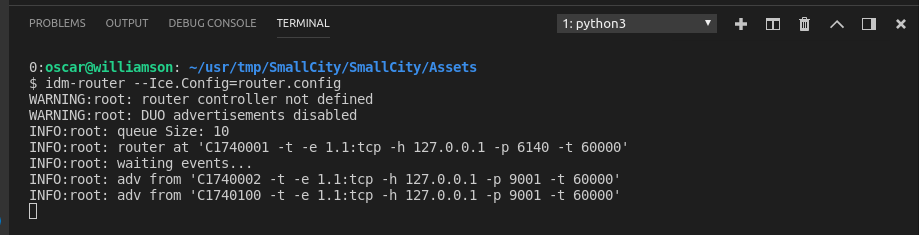
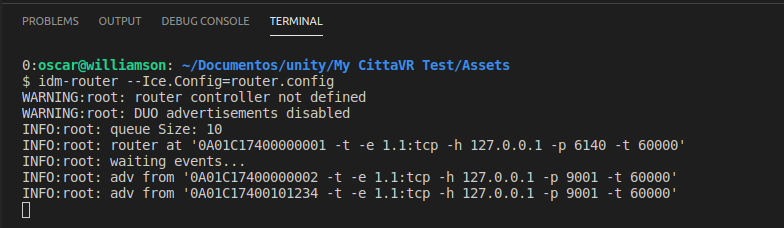
cittavr: updating docs, not finished

diff --git a/cittavr/content/_index.md b/cittavr/content/_index.md
@@ -188,8 +188,8 @@ tools for C# using the [NuGet repositories](https://www.nuget.org/),
 and there is a **plugin** to add support for NuGet to Unity, so this is
 what you need to install.
 
-First, **download the plugin** in the following site (its an asset in the form
-of an `.unitypackage`):
+First, **download the plugin** in the following site (is an asset in the form
+of `.unitypackage`):
 
 * [NuGetForUnity github releases](https://github.com/GlitchEnzo/NuGetForUnity/releases)
 
@@ -256,12 +256,10 @@ On drop, it will show a new window to select what components you want to
 include. Confirm that **all is selected** and press on import. Repeat the **same
 process** to include the package '*CittaVR Assets*' you downloaded earlier.
 
-<!--
-
 The final step to conclude your setup is **adding** to your scene an
 instance of the **CittaVRApp prefab**, which is needed to initialize
 all the internal runtime of CittaVR. Go to `Assets > CittaVR` folder
-inside your project tab of the Unity Editor. There you should find a
+inside your project tab on the Unity Editor. There you should find a
 [prefab](https://docs.unity3d.com/Manual/Prefabs.html) called
 `CittaVRApp` (the blue 3D box), drag it and drop into your *Hierarchy*
 tab (and save the scene!).
@@ -290,7 +288,7 @@ course, you are not limited to use only these, later we will
 see how to create new ones, but as a starting point they will do.
 
 Depending on the version you downloaded, there will be more or less
-available assets. As of writing this document, there were: an *street
+available assets. As of writing this document, there were: a *street
 lamp*, a *traffic lights* and a *proximity sensor*. Let's **add the
 street lamp** first.
 
@@ -301,51 +299,48 @@ wherever you want. After that, you may see something like this:
 {{< polaroid src="unity - street lamp added.png"
 caption="Unity: adding a new StreetLamp asset" >}}
 
-Well, OK. Maybe I've changed some *little* things (I've added a plane
-as a floor, reduced the light intensity and switched on the Street
-Lamp), but you get the idea, **there is a street lamp** on my scene,
-as should be in yours! Now, you can press **play** again... but it
-won't work :D, you'll see the following error message:
+Well, OK. Maybe I've changed some *little* things (I've added a plane as a
+floor, reduced the light intensity and switched on the Street Lamp), but you get
+the idea, **there is a street lamp** on my scene, as should be in yours! Now,
+you can press **play** again and your street lamp will be ready for action. You
+may see a warning message like this:
 
 {{< polaroid src="unity - error no idm address.png"
 caption="Unity: running without IDM address">}}
 
-Yes, the reason is that we didn't set a valid IDM address for this
-object. In order to be reachable, or to know the source of a virtual
-event, every object in CittaVR **must have** an IDM **address**. To
-set it, go to the object inspector (right side in the above picture),
-and find the `Street Lamp (Script)` component. There, you should
-see two properties:
+The reason is that you **didn't set** a valid IDM address for this object. In
+order to be reachable, or to know the source of a virtual event, every object in
+CittaVR **should have** an IDM **address**. If you don't set it, CittaVR will
+automatically choose one from the address pool (in this case, the next free
+address: `0A01C17400000003`. If you want to set it, go to the object inspector
+(right side in the above picture), and find the `Street Lamp (Script)`
+component. There, you should see two properties:
 
 * **`IDM Address`**, which is the field we need to change, the address
   of this object for everyone else (including the outside world!)
 * **`Citisim ID`**, this is an internal identifier, used for dynamic
-  instantiating, not to worry about it now.
+  instantiating, don't to worry about it now.
 
-So, change the **IDM Address** field, and add a valid address, in the
-same domain that your router, like `C1740100` (thus, you can create
-dynamic objects from `C1740003` to `C17400FF`). Then, you can press
-**play** again, and you will get rid of that error message. Moreover,
-the object should have been **advertised** on your IDM router, like
-this:
-
+So, to change the **IDM Address** field, add a valid address, in the same domain
+that your router, like `0A01C17400101234`. Then, if you press **play** again,
+you will get rid of that warning. One way or the other, the object should have
+been **advertised** on your IDM router, like this:
 
 {{< polaroid src="idm - adv of street lamp.png"
 caption="IDM: advertisement of the new Street Lamp">}}
 
 
-Now, you can **change its status** from inside and outside Unity. From
-inside, just **click** on the street lamp head, and it should toggle
-the lamp status. To change it from outside, you must know that this
-lamp implements the *Citisim* interface `SmartObject::DigitalSink`, so
-you need a client that uses this interface. For instance, the Debian
-package `citisim-dummies` provides a **command line tool** that could
-be used for this purpose. To reach the object **directly**, use the
-proxy that you saw on the advertisement:
+Now, you can **change its status** from inside and outside Unity. From inside,
+just **click** on the street lamp head, and it should toggle the lamp status. To
+change it from outside, you must know that this lamp implements the *Smart
+Transducer* interface `st::IBool`, so you need a client that uses this
+interface. For instance, the Debian package `smart-transducer` provides a
+**command line tool** that could be used for this purpose. To reach the object
+**directly**, use the proxy that you saw on the advertisement:
 
 {{< shell >}}
-$ digitalsink-client "C1740100 -t:tcp -h 127.0.0.1 -p 9001" 1
-$ digitalsink-client "C1740100 -t:tcp -h 127.0.0.1 -p 9001" 0
+st-client -t bool -p "0A01C17400101234 -t:tcp -h 127.0.0.1 -p 9001" 1
+st-client -t bool -p "0A01C17400101234 -t:tcp -h 127.0.0.1 -p 9001" 0
 {{< /shell >}}
 
 But, if you want to **use IDM** (which is, by the way, the **proper**
@@ -353,8 +348,8 @@ method), you will use the router's endpoints and the object's address,
 like this:
 
 {{< shell >}}
-$ digitalsink-client "C1740100 -t:tcp -h 127.0.0.1 -p 6140" 1
-$ digitalsink-client "C1740100 -t:tcp -h 127.0.0.1 -p 6140" 0
+st-client -t bool -p "0A01C17400101234 -t:tcp -h 127.0.0.1 -p 6140" 1
+st-client -t bool -p "0A01C17400101234 -t:tcp -h 127.0.0.1 -p 6140" 0
 {{< /shell >}}
 
 In this case, you will also see how the **router forwards** these
@@ -363,26 +358,28 @@ messages to the proper destination:
 {{< polaroid src="idm - forwarding.png"
 caption="IDM: forwarding messages to the lamp">}}
 
-What is more, this object also implements the interface
-`SmartObject::Observable`, so you can set another object as its
-**observer**, and when the lamp changes its state, it will **notify**
-the new state to this observer. Also, this lamp could be the observer
-of some other object. **Let's do it!**
+What is more, this object also implements the interface `st::Linkable`, so you
+can set another object as its **observer** (or link), and when the lamp changes
+its state, it will **notify** the new state to this observer. Also, this lamp
+could be the observer of some other object. **Let's do it!**
 
-# Dynamic instantiating
 
-We will use one of the other prefabs that come with CittaVR Assets:
-the **proximity sensor**. The scene could be the following: it's
-nighttime and you have a street with very few people on it but very
-well illuminated. In order to reduce the costs, you want to dim (or
-directly switch off) the lights when there is no cars, and
-automatically switch them on when someone enters the street.
+# Dynamic instantation
 
-So, we need a proximity sensor that **detects** a new car, and then
-**switches on** the street lamp. This sensor implements the interface
-`SmartObject::Observable`, and sends events using
-`SmartObject::DigitalSink`, which is the same interface implemented by
-the *StreetLamp* object. We can just connect one to the other.
+We will use one of the other prefabs that come with CittaVR Assets: the
+**proximity sensor**. The scene could be the following:
+
+<pre>It's nighttime and you have a street with very few people on it but very well
+illuminated. In order to reduce the costs, you want to dim (or directly switch
+off) the lights when there is no cars, and automatically switch them on when
+someone enters the street.
+
+</pre>
+
+So, we need a proximity sensor that **detects** a new car, and then **switches
+on** the street lamp. This sensor implements the interface `st::Linkable`, and
+sends events using `st::IBool`, which is the same interface implemented by the
+*StreetLamp* object. We can just connect one to the other.
 
 If you go to the `Assets > Resources > CittaVR`, there should be a
 `ProximitySensor` prefab. You could just add it to your scene, as we
@@ -390,20 +387,20 @@ did earlier, but we want to do it **differently, in a dynamic way**
 (i.e: having the whole scene **running**).
 
 {{% note primary %}}
-Those objects added using this method will **live only** while
-the player (or the application) **is running**. When you press the
-stop button, every dynamic object will be **destroyed**.
+The objects added using this method will **live only** while the player (or the
+application) **is running**. When you press the stop button, every dynamic
+object will be **destroyed**.
+<br><br>
 {{% /note %}}
 
-For doing that, first thing you need to do is to press **play** on the
-Unity editor, as we need the *CittaVRApp* running. Then, open a
-terminal window, and use the `cittavr` companion **tool** to add the
-asset. You need to specify your **project folder** (the Unity project
-root folder), the **name** of the asset and the **position** in the
-scene to place it. For instance:
+To achieve this, first thing you need to do is to press **play** on the Unity
+editor, as we need the *CittaVRApp* running. Then, open a terminal window, and
+use the `cittavr` companion **tool** to add the asset. You need to specify your
+**project folder** (the Unity project root folder), the **name** of the asset
+and the **position** in the scene to place it. For instance:
 
 {{< shell >}}
-$ cittavr . --add-asset CittaVR/ProximitySensor --pos 35.5 30.5 6 90
+cittavr . --add-asset CittaVR/ProximitySensor --pos 0 3.5 0 90
 {{< /shell >}}
 
 {{% note primary %}}
@@ -411,11 +408,12 @@ If you want to create **more than one** object of the same
 kind, you also need to provide the `--id` argument (an integer will
 do), with a **different** value for each instance. Feel free to run
 `cittavr --help` for more info.
+<br><br>
 {{% /note %}}
 
 Of course, you can use the supplied **Ice interface** directly from
 your program to achieve the same result. In any case, the proximity
-sensor should be displayed like a **transparent red box** (you will
+sensor should be displayed like a **red box** (you will
 see it in the game tab and also in the scene editor tab):
 
 {{< polaroid src="unity - proximity sensor.png"
@@ -428,26 +426,24 @@ stopped, otherwise you will loose the changes):
 {{< polaroid src="unity - disable render proximity sensor.png"
 caption="Proximity Sensor: disabling the red box">}}
 
-Now, when some object **collides** with this one, it will emit a
-message to its observer (if no observer is set, nothing will be
-done). Note that the colliding object should be a **Rigid Body**, and
-also have **some type of collider** on it. So its time to add the
-object that will **activate** this sensor, just to test if everything
-works. Press **Stop** on your player, and add a cube or something that
-will collide with your sensor (I've added a car running in a loop).
-Now, you can press play, and add the proximity sensor again, using the
+Now, when some object **collides** with this one, it will emit a message to its
+observer (if no observer is set, nothing will be done). Note that the colliding
+object should be a **Rigid Body**, and also have **some type of collider** on
+it. So its time to add the object that will **activate** this sensor, just to
+test if everything works. Press **Stop** on your player, and add a cube or
+something that will collide with your sensor (I've added a car running in a
+loop). Now, you can press play, and add the proximity sensor again, using the
 `cittavr` tool.
 
-But, if you expect the light to switch on, you will get disappointed!
-:) Why? Because we didn't **connect** both object yet. Its a simple
-step. Open a new terminal window, and use a tool called
-`observable-set`, available on the `citisim-dummies` Debian
-package. It needs **two** parameters: first, the proxy of **your
-observable** object (which is the source of the events), and second,
-the IDM address of **the observer** (that is the object that will
-receive the events). In this example, the observable object is the
-proximity sensor (IDM: `C1740003`) and the observer is your street
-lamp (IDM: `C1740100`).
+<!--
+But, if you expect the light to switch on, you will get disappointed! :) Why?
+Because we didn't **connect** both objects (yet). Its a simple step. Open a new
+terminal window, and use a tool called `observable-set`, available on the
+`citisim-dummies` Debian package. It needs **two** parameters: first, the proxy
+of **your observable** object (which is the source of the events), and second,
+the IDM address of **the observer** (that is the object that will receive the
+events). In this example, the observable object is the proximity sensor (IDM:
+`C1740003`) and the observer is your street lamp (IDM: `C1740100`).
 
 So, to **connect both** elements (using the router's proxy), run the
 following command:
